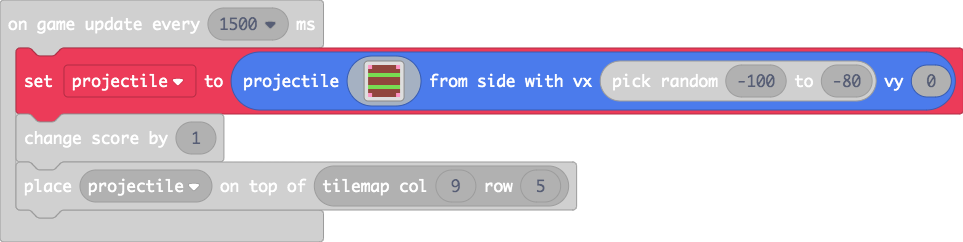
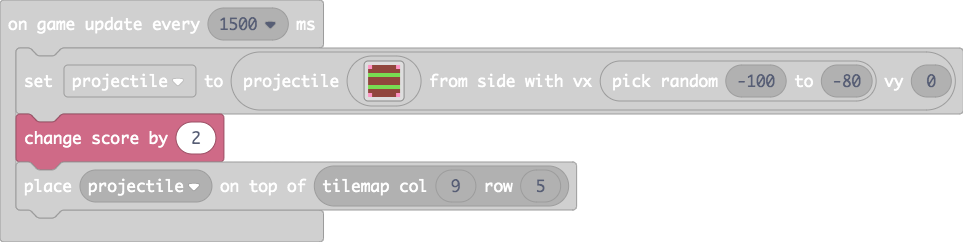
Update main.ts, main.blocks

Changed region(s): [[0.0, 0.1736, 1.0, 0.7231]]

diff --git a/main.ts b/main.ts
@@ -75,6 +75,6 @@ e e e e e e e e
 e e e e e e e e 
 3 e e e e e e 3 
 `, Math.randomRange(-100, -80), 0)
-    info.changeScoreBy(1)
+    info.changeScoreBy(2)
     tiles.placeOnTile(projectile, tiles.getTileLocation(9, 5))
 })
